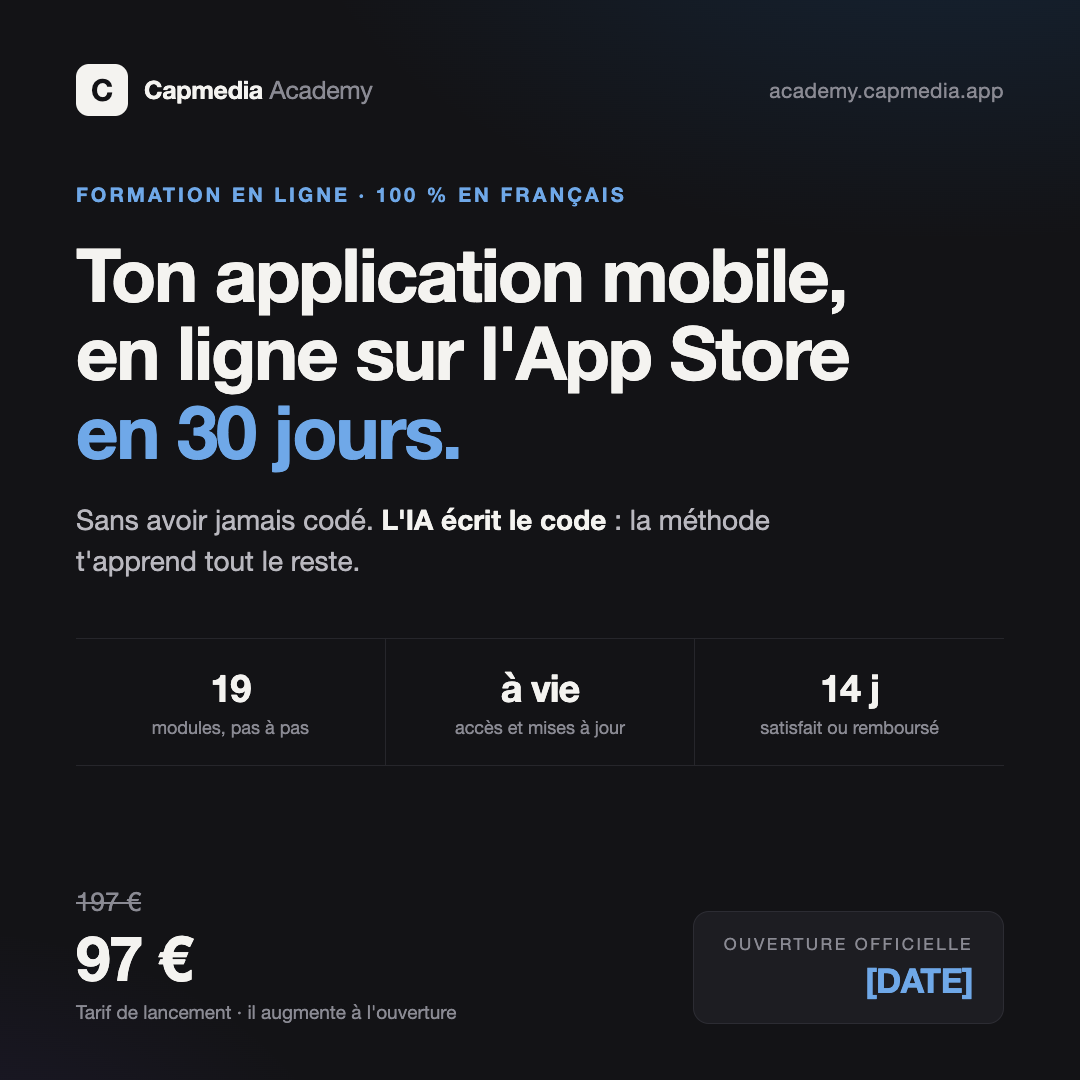
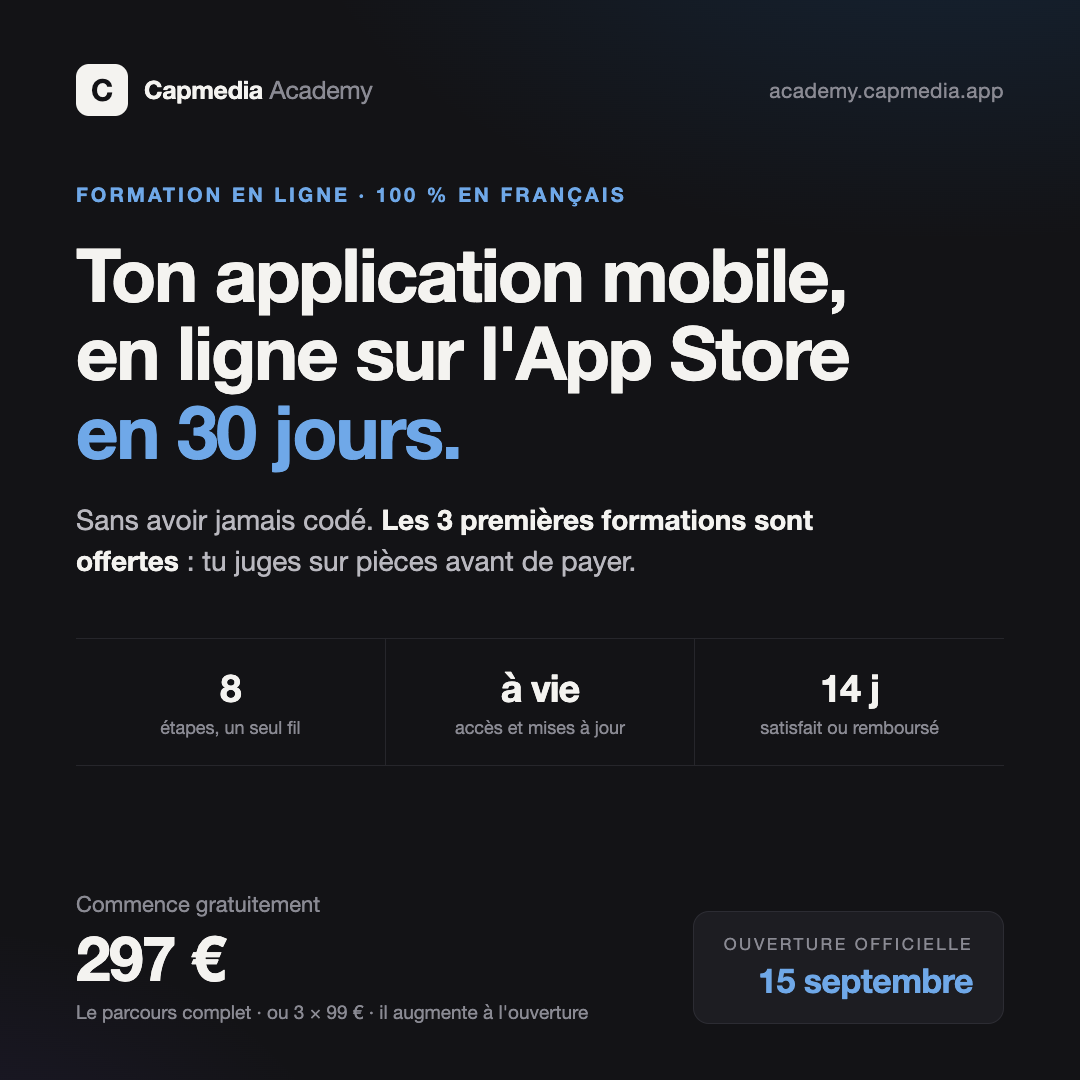
Visuels promo au message du nouveau modèle : 3 formations offertes, parcours 297 € ou 3 fois 99 €

diff --git a/promo/portrait.html b/promo/portrait.html
@@ -92,21 +92,21 @@
   <div class="heros">
     <p class="avant-titre">Formation en ligne · 100 % en français</p>
     <h1>Ton application mobile, en ligne sur l'App&nbsp;Store <em>en 30 jours.</em></h1>
-    <p class="sous">Sans avoir jamais écrit une ligne de code. <strong>L'IA écrit le
-    code</strong> : la méthode t'apprend tout le reste, de l'idée à la publication.</p>
+    <p class="sous">Sans avoir jamais écrit une ligne de code. <strong>Les 3 premières
+    formations sont offertes</strong> : tu juges sur pièces avant de payer.</p>
   </div>
 
   <div class="preuves">
-    <div class="preuve"><div class="num">19</div><div class="lab">modules, pas à pas</div></div>
+    <div class="preuve"><div class="num">8</div><div class="lab">étapes, un seul fil</div></div>
     <div class="preuve"><div class="num">à vie</div><div class="lab">accès et mises à jour</div></div>
     <div class="preuve"><div class="num">14 j</div><div class="lab">satisfait ou remboursé</div></div>
   </div>
 
   <div class="pied">
     <div class="prix">
-      <div class="barre">197 €</div>
-      <div class="montant">97 €</div>
-      <div class="note">Tarif de lancement · il augmente à l'ouverture</div>
+      <div class="barre" style="text-decoration:none;font-size:22px">Commence gratuitement</div>
+      <div class="montant">297 €</div>
+      <div class="note">Le parcours complet · ou 3 × 99 € · il augmente à l'ouverture</div>
     </div>
     <div class="date">
       <div class="lab">Ouverture officielle</div>

diff --git a/promo/carre.html b/promo/carre.html
@@ -57,19 +57,19 @@
   <div class="heros">
     <p class="avant-titre">Formation en ligne · 100 % en français</p>
     <h1>Ton application mobile, en ligne sur l'App&nbsp;Store <em>en 30 jours.</em></h1>
-    <p class="sous">Sans avoir jamais codé. <strong>L'IA écrit le code</strong> :
-    la méthode t'apprend tout le reste.</p>
+    <p class="sous">Sans avoir jamais codé. <strong>Les 3 premières formations
+    sont offertes</strong> : tu juges sur pièces avant de payer.</p>
   </div>
   <div class="preuves">
-    <div class="preuve"><div class="num">19</div><div class="lab">modules, pas à pas</div></div>
+    <div class="preuve"><div class="num">8</div><div class="lab">étapes, un seul fil</div></div>
     <div class="preuve"><div class="num">à vie</div><div class="lab">accès et mises à jour</div></div>
     <div class="preuve"><div class="num">14 j</div><div class="lab">satisfait ou remboursé</div></div>
   </div>
   <div class="pied">
     <div class="prix">
-      <div class="barre">197 €</div>
-      <div class="montant">97 €</div>
-      <div class="note">Tarif de lancement · il augmente à l'ouverture</div>
+      <div class="barre" style="text-decoration:none;font-size:22px">Commence gratuitement</div>
+      <div class="montant">297 €</div>
+      <div class="note">Le parcours complet · ou 3 × 99 € · il augmente à l'ouverture</div>
     </div>
     <div class="date">
       <div class="lab">Ouverture officielle</div>

diff --git a/promo/story.html b/promo/story.html
@@ -56,20 +56,20 @@
   <div class="heros">
     <p class="avant-titre">Formation en ligne · 100 % en français</p>
     <h1>Ton app mobile, sur l'App&nbsp;Store <em>en 30 jours.</em></h1>
-    <p class="sous">Sans avoir jamais codé. <strong>L'IA écrit le code</strong> :
-    la méthode t'apprend tout le reste.</p>
+    <p class="sous">Sans avoir jamais codé. <strong>Les 3 premières formations
+    sont offertes</strong> : tu juges sur pièces avant de payer.</p>
   </div>
 
   <div class="preuves">
-    <div class="preuve"><span class="num">19</span><span class="lab">modules, de l'idée à la publication</span></div>
+    <div class="preuve"><span class="num">3</span><span class="lab">formations offertes pour commencer</span></div>
     <div class="preuve"><span class="num">à vie</span><span class="lab">accès et mises à jour comprises</span></div>
     <div class="preuve"><span class="num">14 j</span><span class="lab">satisfait ou remboursé, sans discussion</span></div>
   </div>
 
   <div class="pied">
     <div class="prix">
-      <span class="montant">97 €</span>
-      <span class="barre">197 €</span>
+      <span class="montant">297 €</span>
+      <span class="barre" style="text-decoration:none">ou 3 × 99 €</span>
     </div>
     <span class="note prix"><span class="note">Tarif de lancement · il augmente à l'ouverture</span></span>
     <div class="date">
